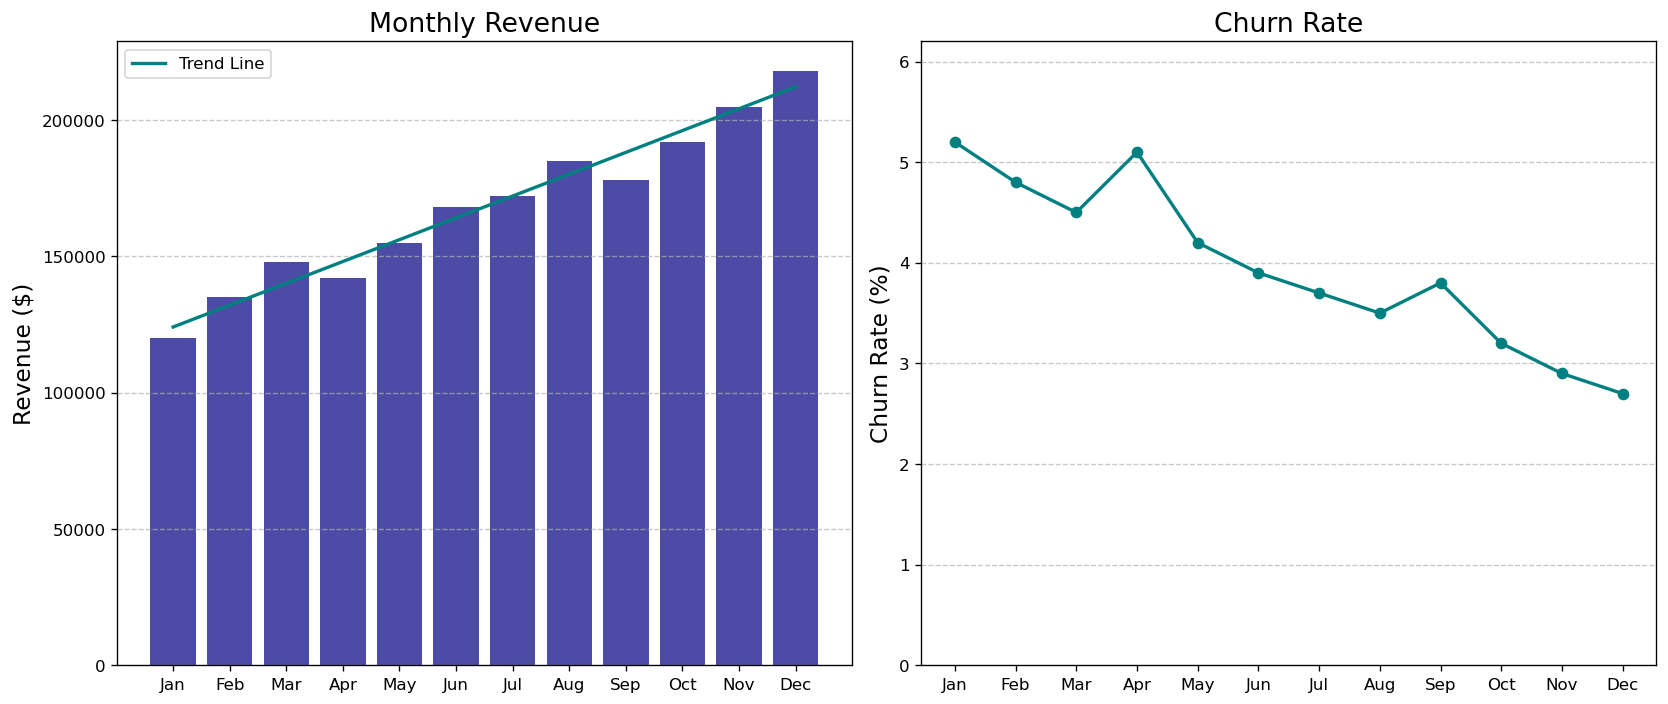
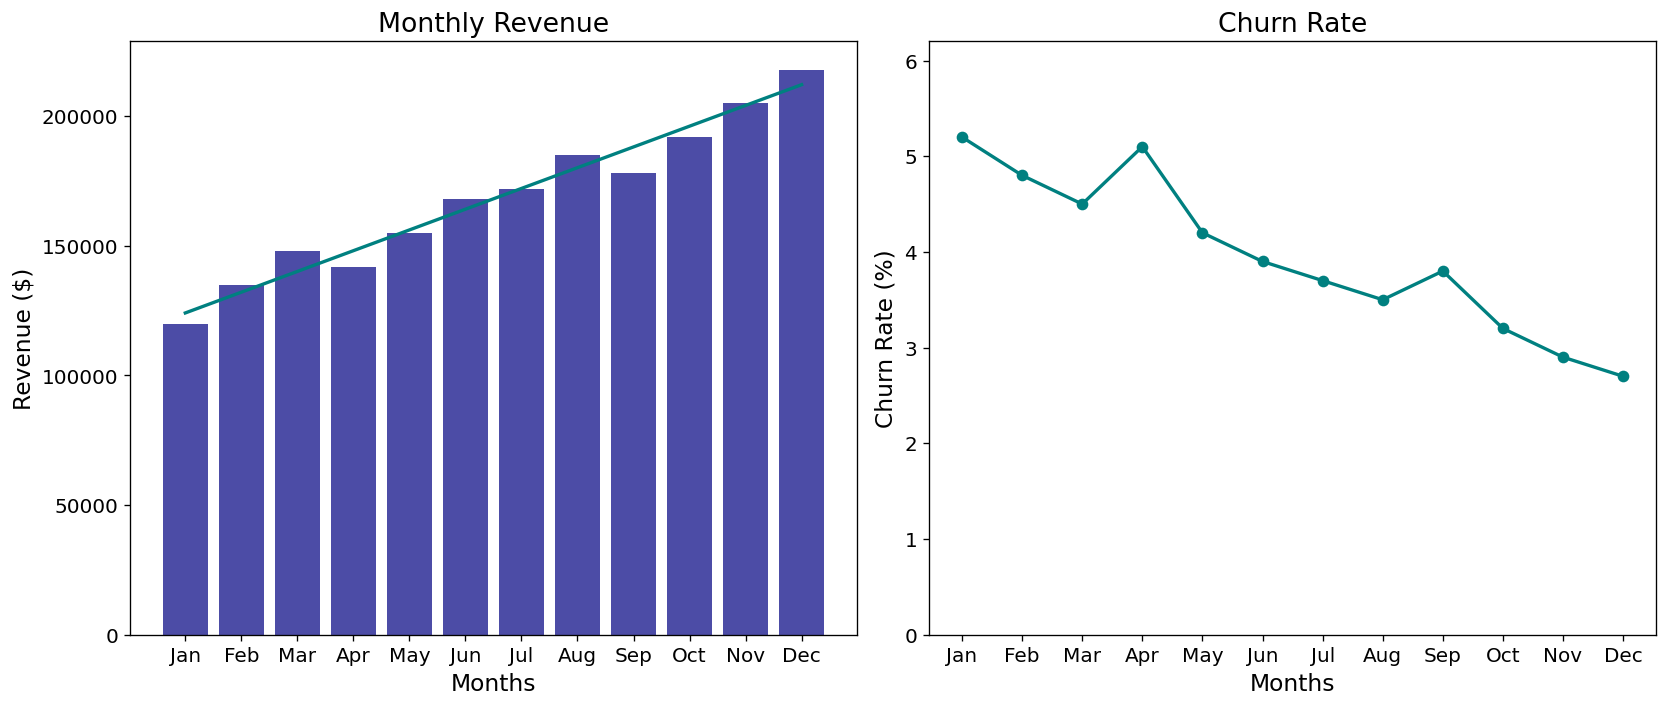
update

diff --git a/demo_D_visualisation.py b/demo_D_visualisation.py
@@ -288,10 +288,8 @@ Tables:
 # Main
 # ---------------------------------------------------------------------------
 def run():
-    print("█" * 65)
     print("  DEMO D: LLM-POWERED DATA VISUALISATION")
-    print("█" * 65)
-
+   
     demo_nl_to_matplotlib()
     demo_nl_to_plotly()
     demo_chart_to_narrative()
